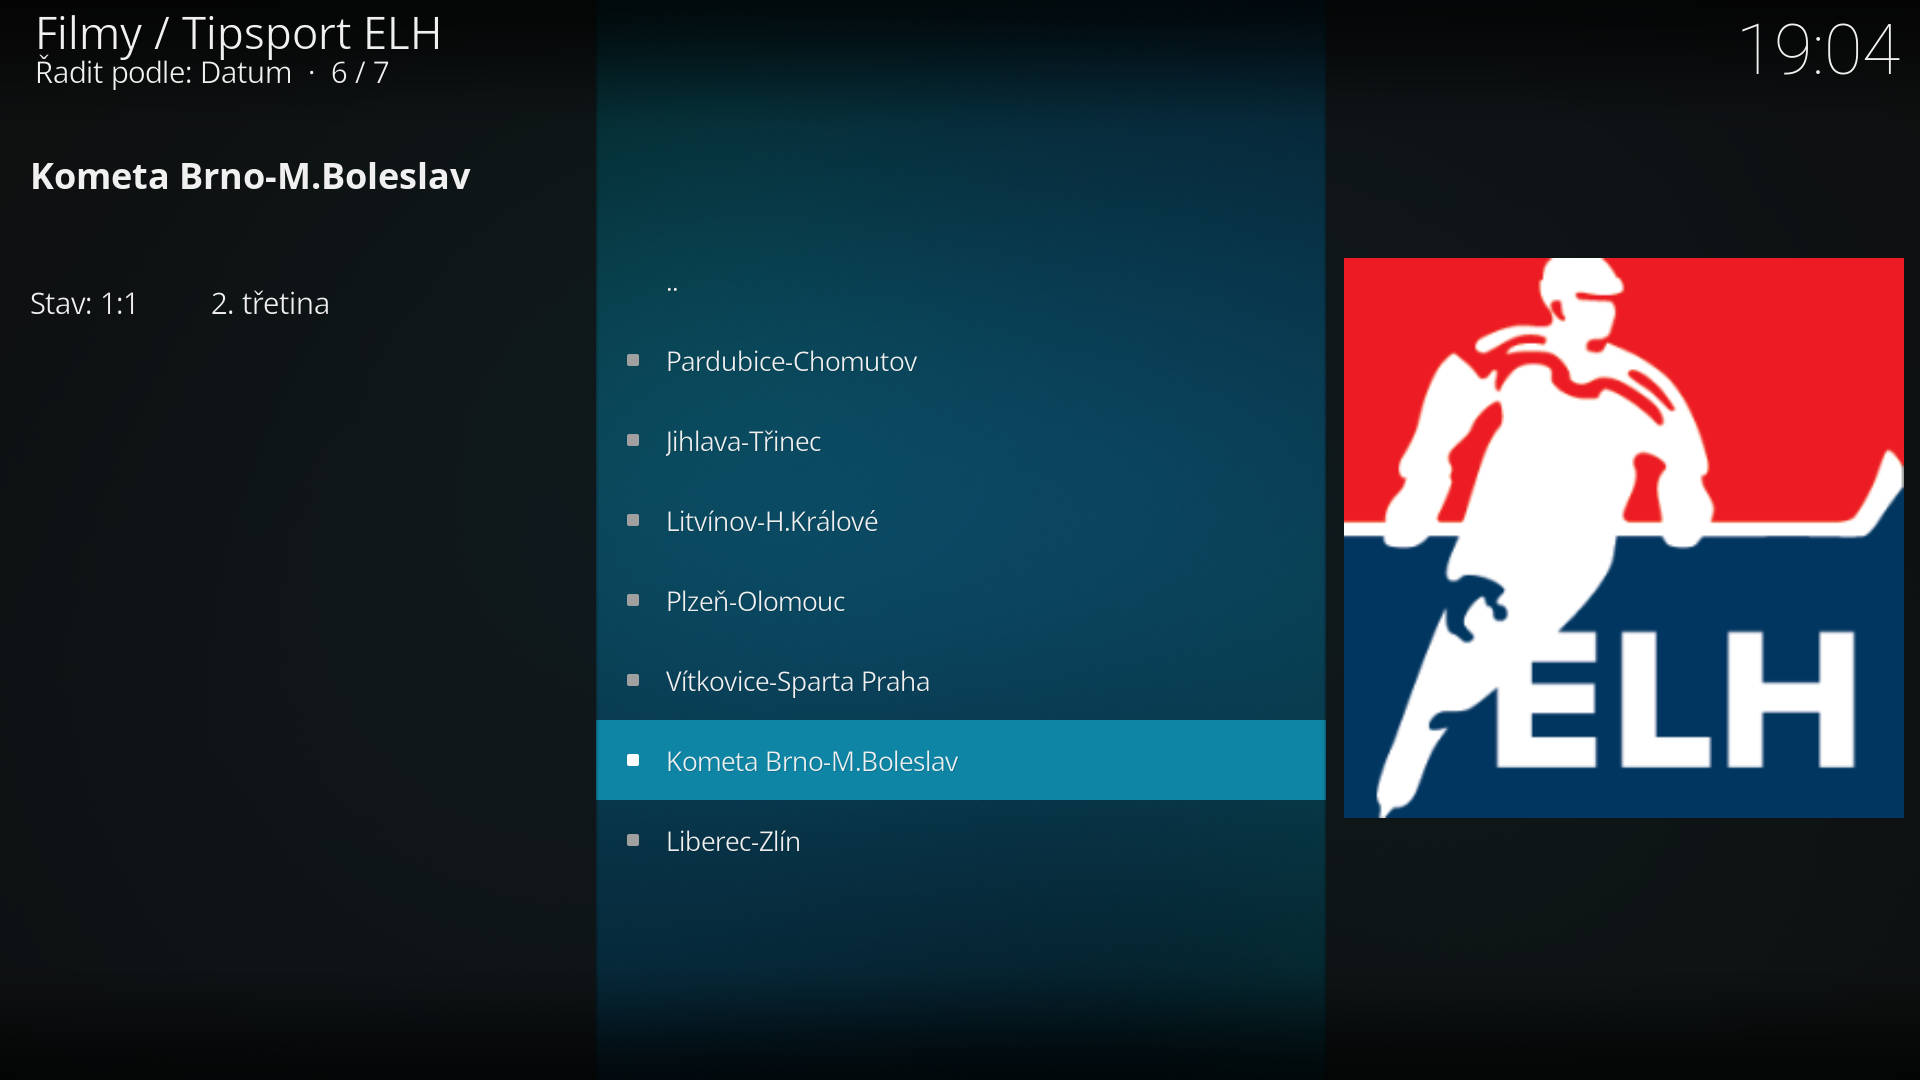
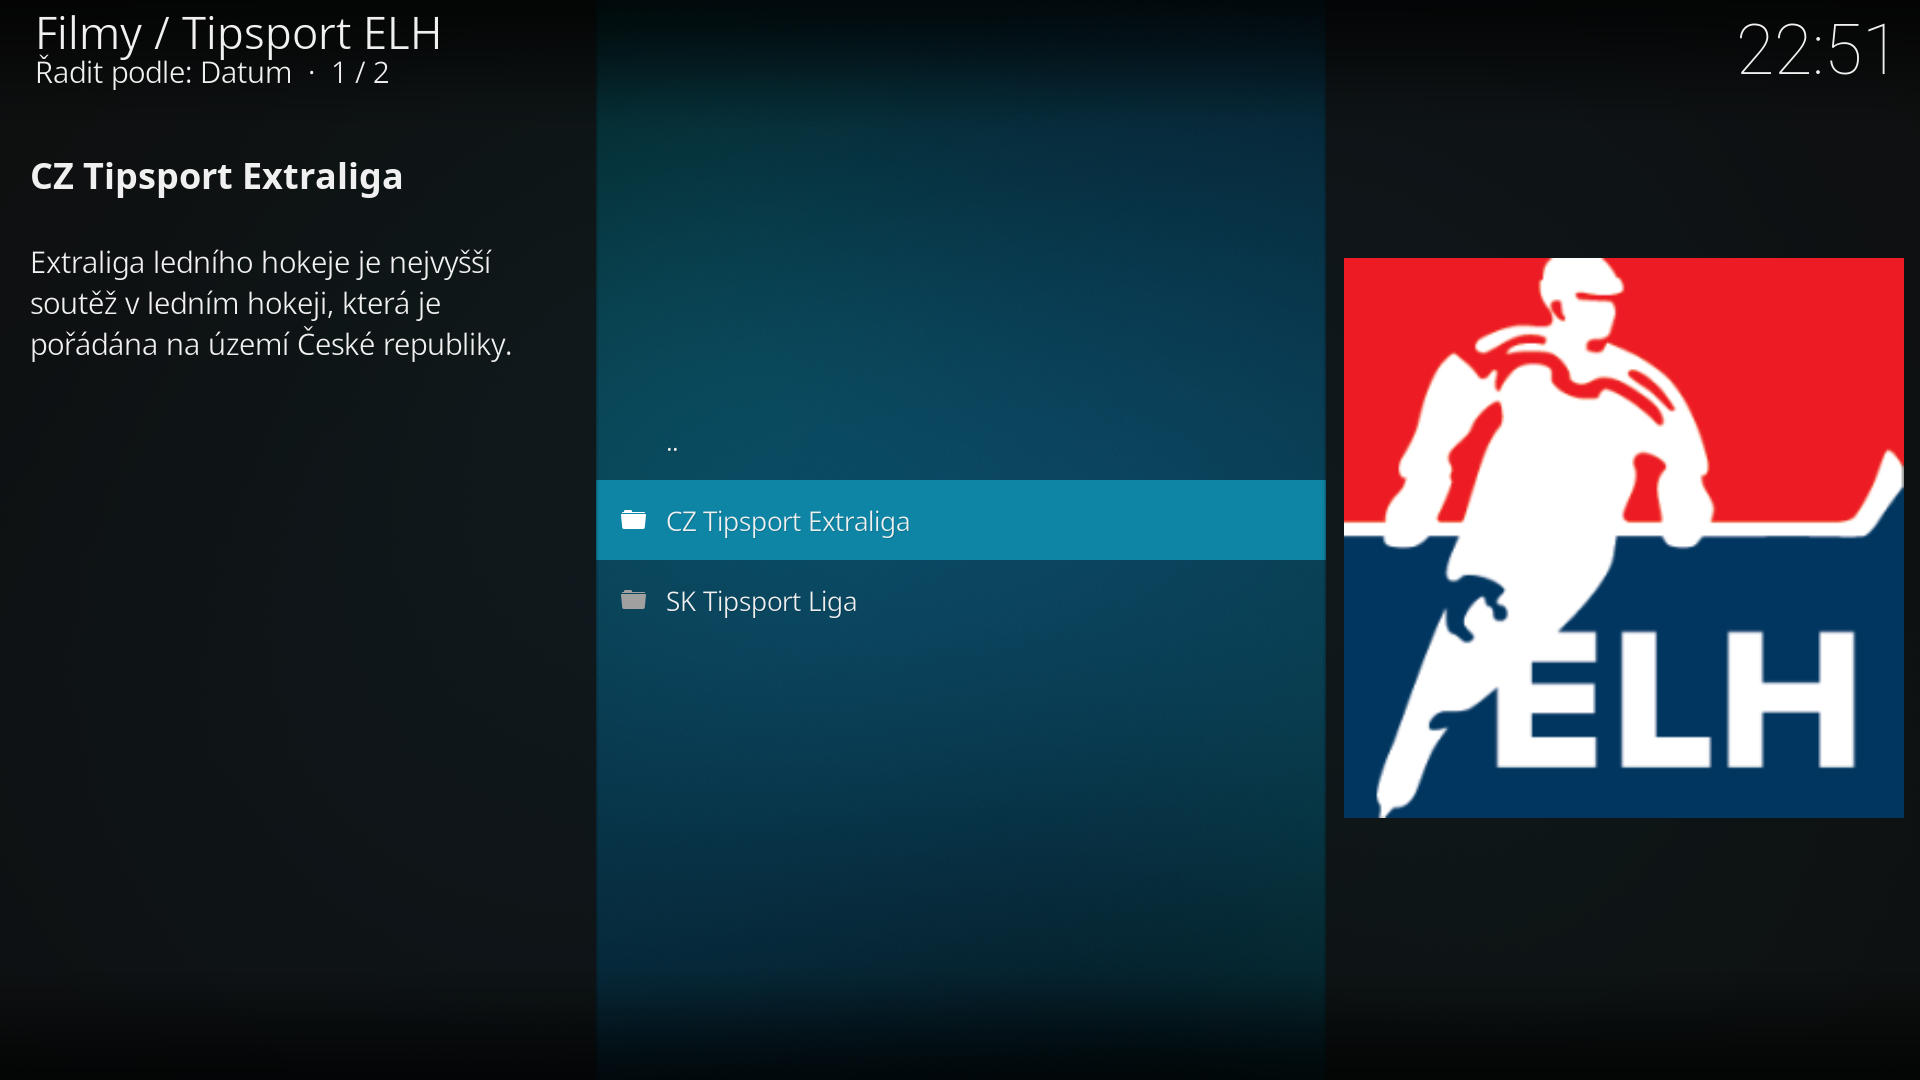
Merge add_sk_tisport branch
Add SK tipsport matches
Fix Stream Enabler
Add new screenshot
Minor fix while getting stream

diff --git a/resources/lib/tipsport_stream_generator.py b/resources/lib/tipsport_stream_generator.py
@@ -2,14 +2,19 @@ import re
 import random
 import requests
 import urllib
+import time
 from datetime import datetime, timedelta
 from tipsport_exceptions import *
+
+COMPETITIONS = {'CZ_TIPSPORT': [u'Tipsport extraliga', u'CZ Tipsport extraliga'],
+                'SK_TIPSPORT': [u'Slovensk\u00E1 Tipsport liga', u'Tipsport Liga']}
 
 
 class Match:
     """Class represents one match with additional information"""
 
-    def __init__(self, name, competition, sport, url, start_time, status, not_started, score):
+    def __init__(self, name, competition, sport, url, start_time, status, not_started, score, icon_name,
+                 minutes_enable_before_start):
         self.name = name
         self.competition = competition
         self.sport = sport
@@ -18,17 +23,22 @@ class Match:
         self.status = status
         self.started = True if not_started == 'false' else False
         self.score = score
+        self.icon_name = icon_name
+        self.minutes_enable_before_start = minutes_enable_before_start
 
     def is_stream_enabled(self):
-        hours_before_start = 1
         now = datetime.now()
-        match_time = datetime.strptime(self.start_time, '%H:%M')
+        try:
+            match_time = datetime.strptime(self.start_time, '%H:%M')
+        except TypeError:
+            match_time = datetime(*(time.strptime(self.start_time, '%H:%M')[0:6]))
+        # Bug in Python 2.7 ( https://bugs.python.org/issue27400 ) -> workaround
         time_to_start = match_time - now
-        return time_to_start.seconds < timedelta(hours=hours_before_start).seconds
+        return time_to_start.seconds < timedelta(minutes=self.minutes_enable_before_start).seconds
 
 
-class Stream:
-    """Class represent one stream and store metadata used to generate stream link"""
+class RTMPStream:
+    """Class represent one stream and store metadata used to generate rtmp stream link"""
 
     def __init__(self, rtmp_url, playpath, app, live_stream):
         self.rtmp_url = rtmp_url
@@ -36,11 +46,21 @@ class Stream:
         self.app = app
         self.live_stream = live_stream
 
-    def get_rtmp_link(self):
+    def get_link(self):
         return '{rtmp_url} playpath={playpath} app={app}{live}'.format(rtmp_url=self.rtmp_url,
                                                                        playpath=self.playpath,
                                                                        app=self.app,
                                                                        live=' live=true' if self.live_stream else '')
+
+
+class HLSStream:
+    """Class represent one stream and store metadata used to generate hls stream link"""
+
+    def __init__(self, url):
+        self.url = url.strip()
+
+    def get_link(self):
+        return self.url
 
 
 class Tipsport:
@@ -75,7 +95,7 @@ class Tipsport:
             raise LoginFailedException()
         self.logged_in = True
 
-    def get_list_elh_matches(self):
+    def get_list_elh_matches(self, competition_name):
         """Get list of all available ELH matches on https://www.tipsport.cz/tv"""
         try:
             page = self.session.get('https://www.tipsport.cz/tv')
@@ -96,7 +116,7 @@ class Tipsport:
             response = self.session.post(dwr_script, payload)
             response.encoding = 'utf-8'
             matches_iter = re.finditer('.*\
-abbrName="(?P<name>.*?)".*\
+abbrName="(?P<name>.*?) ?".*\
 competition="(?P<competition>.*?)".*\
 dateStartAsHHMM="(?P<start_time>.*?)".*\
 notStarted=(?P<not_started>.*?);.*\
@@ -104,24 +124,48 @@ sport="(?P<sport>.*?)".*\
 status="(?P<status>.*?)".*\
 url="(?P<url>.*?)".*\n.*\
 scoreOffer="(?P<score>.*?)".*', response.content.decode('unicode-escape'))
-            matches = [Match(match.group('name'),
-                             match.group('competition'),
-                             match.group('sport'),
-                             match.group('url'),
-                             match.group('start_time'),
-                             match.group('status'),
-                             match.group('not_started'),
-                             match.group('score'))
-                       for match in matches_iter if match.group(2) in ['Tipsport extraliga', 'CZ Tipsport extraliga']]
+            if competition_name == 'CZ_TIPSPORT':
+                icon_name = 'cz_tipsport_logo.png'
+                minutes_enable_before_start = 60
+            elif competition_name == 'SK_TIPSPORT':
+                icon_name = 'sk_tipsport_logo.png'
+                minutes_enable_before_start = 60
+            else:
+                icon_name = None
+                minutes_enable_before_start = 60
+            matches = [Match(name=match.group('name'),
+                             competition=match.group('competition'),
+                             sport=match.group('sport'),
+                             url=match.group('url'),
+                             start_time=match.group('start_time'),
+                             status=match.group('status'),
+                             not_started=match.group('not_started'),
+                             score=match.group('score'),
+                             icon_name=icon_name,
+                             minutes_enable_before_start=minutes_enable_before_start)
+                       for match in matches_iter if match.group(2) in COMPETITIONS[competition_name]]
             return matches
         except requests.exceptions.ConnectionError:
             raise NoInternetConnectionsException()
 
-    def get_stream(self, relative_url):
-        """Get instance of Stream class from given relative link"""
+    def get_hls_stream(self, page):
+        next_hop = re.search('<iframe src="(.*?embed.*?)"', page)
+        if not next_hop:
+            raise UnableGetStreamMetadataException()
+        page = self.session.get(next_hop.group(1))
+        next_hop = re.search('"hls": "(.*?)"', page.text)
+        if not next_hop:
+            raise UnableGetStreamMetadataException()
+        next_hop = next_hop.group(1)
+        next_page = self.session.get(next_hop)
+        playlists = [playlist for playlist in next_page.text.split('\n') if not playlist.startswith('#')]
+        playlists = [playlist for playlist in playlists if playlist != '']
+        best_playlist_relative_link = playlists[-1]
+        best_playlist = next_hop.replace('playlist.m3u8', best_playlist_relative_link)
+        return HLSStream(best_playlist)
+
+    def get_rtmp_stream(self, relative_url):
         try:
-            if not self.logged_in:
-                self.login()
             stream_url = 'https://www.tipsport.cz/live' + relative_url
             page = self.session.get(stream_url)
             token = get_token(page.text)
@@ -139,11 +183,13 @@ scoreOffer="(?P<score>.*?)".*', response.content.decode('unicode-escape'))
                        'c0-param1': 'string:SMIL',
                        'batchId': 9}
             response = self.session.post(dwr_script, payload)
-            response_type = re.search('type:"(.*?)"', response.text).group(1)
+            search_type = re.search('type:"(.*?)"', response.text)
+            response_type = search_type.group(1) if search_type else 'ERROR'
             if response_type == 'ERROR':  # use 'string:RTMP' instead of 'string:SMIL'
                 payload['c0-param1'] = 'string:RTMP'
                 response = self.session.post(dwr_script, payload)
-            response_type = re.search('type:"(.*?)"', response.text).group(1)
+            search_type = re.search('type:"(.*?)"', response.text)
+            response_type = search_type.group(1) if search_type else 'ERROR'
             if response_type == 'ERROR':  # StreamDWR.getStream.dwr not working on this specific stream
                 raise UnableGetStreamMetadataException()
             if response_type == 'RTMP_URL':
@@ -158,6 +204,27 @@ scoreOffer="(?P<score>.*?)".*', response.content.decode('unicode-escape'))
                 response = self.session.get(url)
                 stream = parse_stream_dwr_response(response.text)
                 return stream
+        except requests.exceptions.ConnectionError:
+            raise NoInternetConnectionsException()
+
+    def get_stream(self, relative_url):
+        """Get instance of Stream class from given relative link"""
+        try:
+            if not self.logged_in:
+                self.login()
+            stream_url = 'https://www.tipsport.cz/live' + relative_url
+            page = self.session.get(stream_url)
+            stream_type = re.search('<div id="contentStream" class="(.*?)".*?>', page.text)
+            if stream_type:
+                stream_type = stream_type.group(1)
+                if stream_type == 'LIVEBOX_ELH':
+                    return self.get_rtmp_stream(relative_url)
+                elif stream_type == 'MANUAL':
+                    return self.get_hls_stream(page.text)
+                else:
+                    raise UnableGetStreamMetadataException()
+            else:
+                raise UnableGetStreamMetadataException()
         except requests.exceptions.ConnectionError:
             raise NoInternetConnectionsException()
 
@@ -218,7 +285,7 @@ def parse_stream_dwr_response(response_text):
             raise UnableParseStreamMetadataException()
     else:
         raise UnsupportedFormatStreamMetadataException()
-    return Stream(url, playpath, app, True)
+    return RTMPStream(url, playpath, app, True)
 
 
 def get_token(page):

diff --git a/default.py b/default.py
@@ -51,10 +51,10 @@ def show_localized_notification(kodi_helper, heading_string_id, message_string_i
                       icon)
 
 
-def show_available_elh_matches(kodi_helper, tipsport):
+def show_available_elh_matches(kodi_helper, tipsport, competitions):
     """Generate list of available elh matches in Kodi"""
     xbmcplugin.setContent(kodi_helper.plugin_handle, 'movies')
-    matches = tipsport.get_list_elh_matches()
+    matches = tipsport.get_list_elh_matches(competitions)
     if len(matches) == 0:
         show_localized_notification(kodi_helper, 30004, 30005, xbmcgui.NOTIFICATION_INFO)
     for match in matches:
@@ -74,9 +74,24 @@ def show_available_elh_matches(kodi_helper, tipsport):
                                                           if xbmc.getLanguage(xbmc.ISO_639_1) == 'cs' else '')
         else:
             plot = '{text} {time}'.format(text=kodi_helper.get_local_string(30002), time=match.start_time)
-        list_item = xbmcgui.ListItem(match.name, iconImage=kodi_helper.icon)
+        list_item = xbmcgui.ListItem(match.name,
+                                     iconImage=kodi_helper.icon if not match.icon_name
+                                     else kodi_helper.get_media(match.icon_name))
         list_item.setInfo(type='Video', infoLabels={'Plot': plot})
         xbmcplugin.addDirectoryItem(handle=kodi_helper.plugin_handle, url=url, listitem=list_item)
+    xbmcplugin.endOfDirectory(kodi_helper.plugin_handle)
+
+
+def show_available_competitions(kodi_helper):
+    xbmcplugin.setContent(kodi_helper.plugin_handle, 'movies')
+    list_item = xbmcgui.ListItem('CZ Tipsport Extraliga', iconImage=kodi_helper.get_media('cz_tipsport_logo.png'))
+    list_item.setInfo(type='Video', infoLabels={'Plot': kodi_helper.get_local_string(30006)})
+    url = kodi_helper.build_url({'mode': 'folder', 'foldername': 'CZ_TIPSPORT'})
+    xbmcplugin.addDirectoryItem(handle=kodi_helper.plugin_handle, url=url, listitem=list_item, isFolder=True)
+    list_item = xbmcgui.ListItem('SK Tipsport Liga', iconImage=kodi_helper.get_media('sk_tipsport_logo.png'))
+    list_item.setInfo(type='Video', infoLabels={'Plot': kodi_helper.get_local_string(30007)})
+    url = kodi_helper.build_url({'mode': 'folder', 'foldername': 'SK_TIPSPORT'})
+    xbmcplugin.addDirectoryItem(handle=kodi_helper.plugin_handle, url=url, listitem=list_item, isFolder=True)
     xbmcplugin.endOfDirectory(kodi_helper.plugin_handle)
 
 
@@ -88,11 +103,13 @@ def main():
     mode = kodi_helper.get_arg('mode')
     try:
         if mode is None:
-            show_available_elh_matches(kodi_helper, tipsport)
+            show_available_competitions(kodi_helper)
+        elif mode == 'folder':
+            show_available_elh_matches(kodi_helper, tipsport, kodi_helper.get_arg('foldername'))
         elif mode == 'play':
             stream = tipsport.get_stream(kodi_helper.get_arg('url'))
             title = '{name} ({time})'.format(name=kodi_helper.get_arg('name'), time=kodi_helper.get_arg('start_time'))
-            play_video(title, kodi_helper.icon, stream.get_rtmp_link())
+            play_video(title, kodi_helper.icon, stream.get_link())
         elif mode == 'notification':
             show_notification(kodi_helper.get_arg('title'), kodi_helper.get_arg('message'), xbmcgui.NOTIFICATION_INFO)
         elif mode == 'check_login':

diff --git a/resources/lib/kodi_helper.py b/resources/lib/kodi_helper.py
@@ -12,6 +12,7 @@ class KodiHelper:
         self.args = urlparse.parse_qs(args)
         self.base_url = base_url
         self.plugin_name = 'plugin.video.tipsport.elh'
+        self.media_path = xbmc.translatePath('special://home/addons/{0}/resources/media/'.format(self.plugin_name))
         self.version = addon.getAddonInfo('version')
         self.username = addon.getSetting('username')
         self.password = addon.getSetting('password')
@@ -35,3 +36,6 @@ class KodiHelper:
         if isinstance(localized_string, unicode):
             localized_string = localized_string.encode('utf-8')
         return localized_string
+
+    def get_media(self, name):
+        return self.media_path + name
